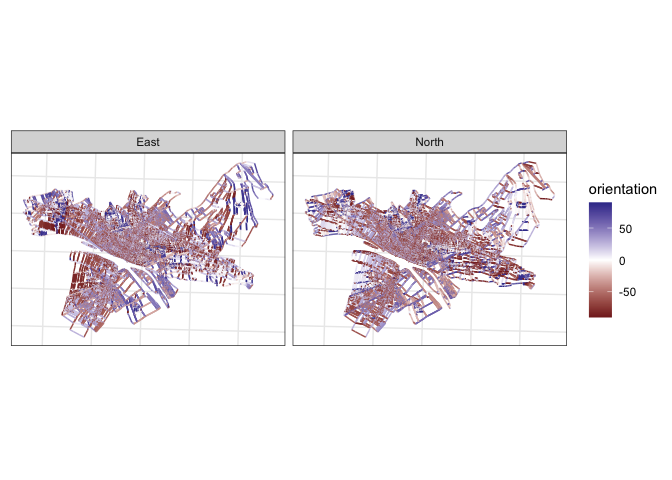
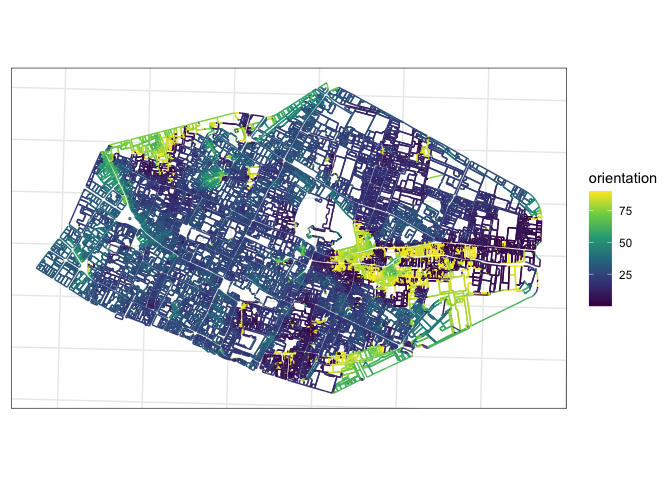
update readme

diff --git a/README.md b/README.md
@@ -41,21 +41,33 @@ linerouen <- morphalr_geom_to_segment(sfobject = rouen_1827, to = 'LINESTRING')
 `morphal_geom_to_segment()` can be applied on LINESTRING, e.g. in the
 case of streets modeled as lines.
 
-Compute orientations of lines with North or East looking parameters.
+Compute orientations of segments with East looking and perpendicular
+parameters.
 
 ``` r
-orientationsnord <- morphalr_segment_orientation(sfsegments = linerouen)
-orientationsest <- morphalr_segment_orientation(sfsegments = linerouen, looking = 'E')
+orientationsest <- morphalr_segment_orientation(sfsegments = linerouen, looking = 'E', perpendicular = TRUE)
 
-orientationsnord |>
-  mutate(looking = 'North') |>
-  bind_rows(orientationsest |> mutate(looking = 'East')) |>
+orientationsest |>
   ggplot() +
   geom_sf(aes(color = orientation)) +
-  scale_color_gradient2() +
-  facet_wrap(~looking) +
+  scale_color_viridis_c() +
   theme_bw() +
   theme(axis.ticks = element_blank(), axis.text = element_blank())
 ```
 
 ![](README_files/figure-gfm/unnamed-chunk-3-1.png)<!-- -->
+
+## Compute morphological indices
+
+Example with DSR:
+
+``` r
+morphalr_dsr(sfpolygons = rouen_1827) |>
+  ggplot() +
+  geom_sf(aes(fill = dsr)) +
+  scale_fill_viridis_c(direction = -1) +
+  theme_bw() +
+  theme(axis.ticks = element_blank(), axis.text = element_blank())
+```
+
+![](README_files/figure-gfm/unnamed-chunk-4-1.png)<!-- -->
